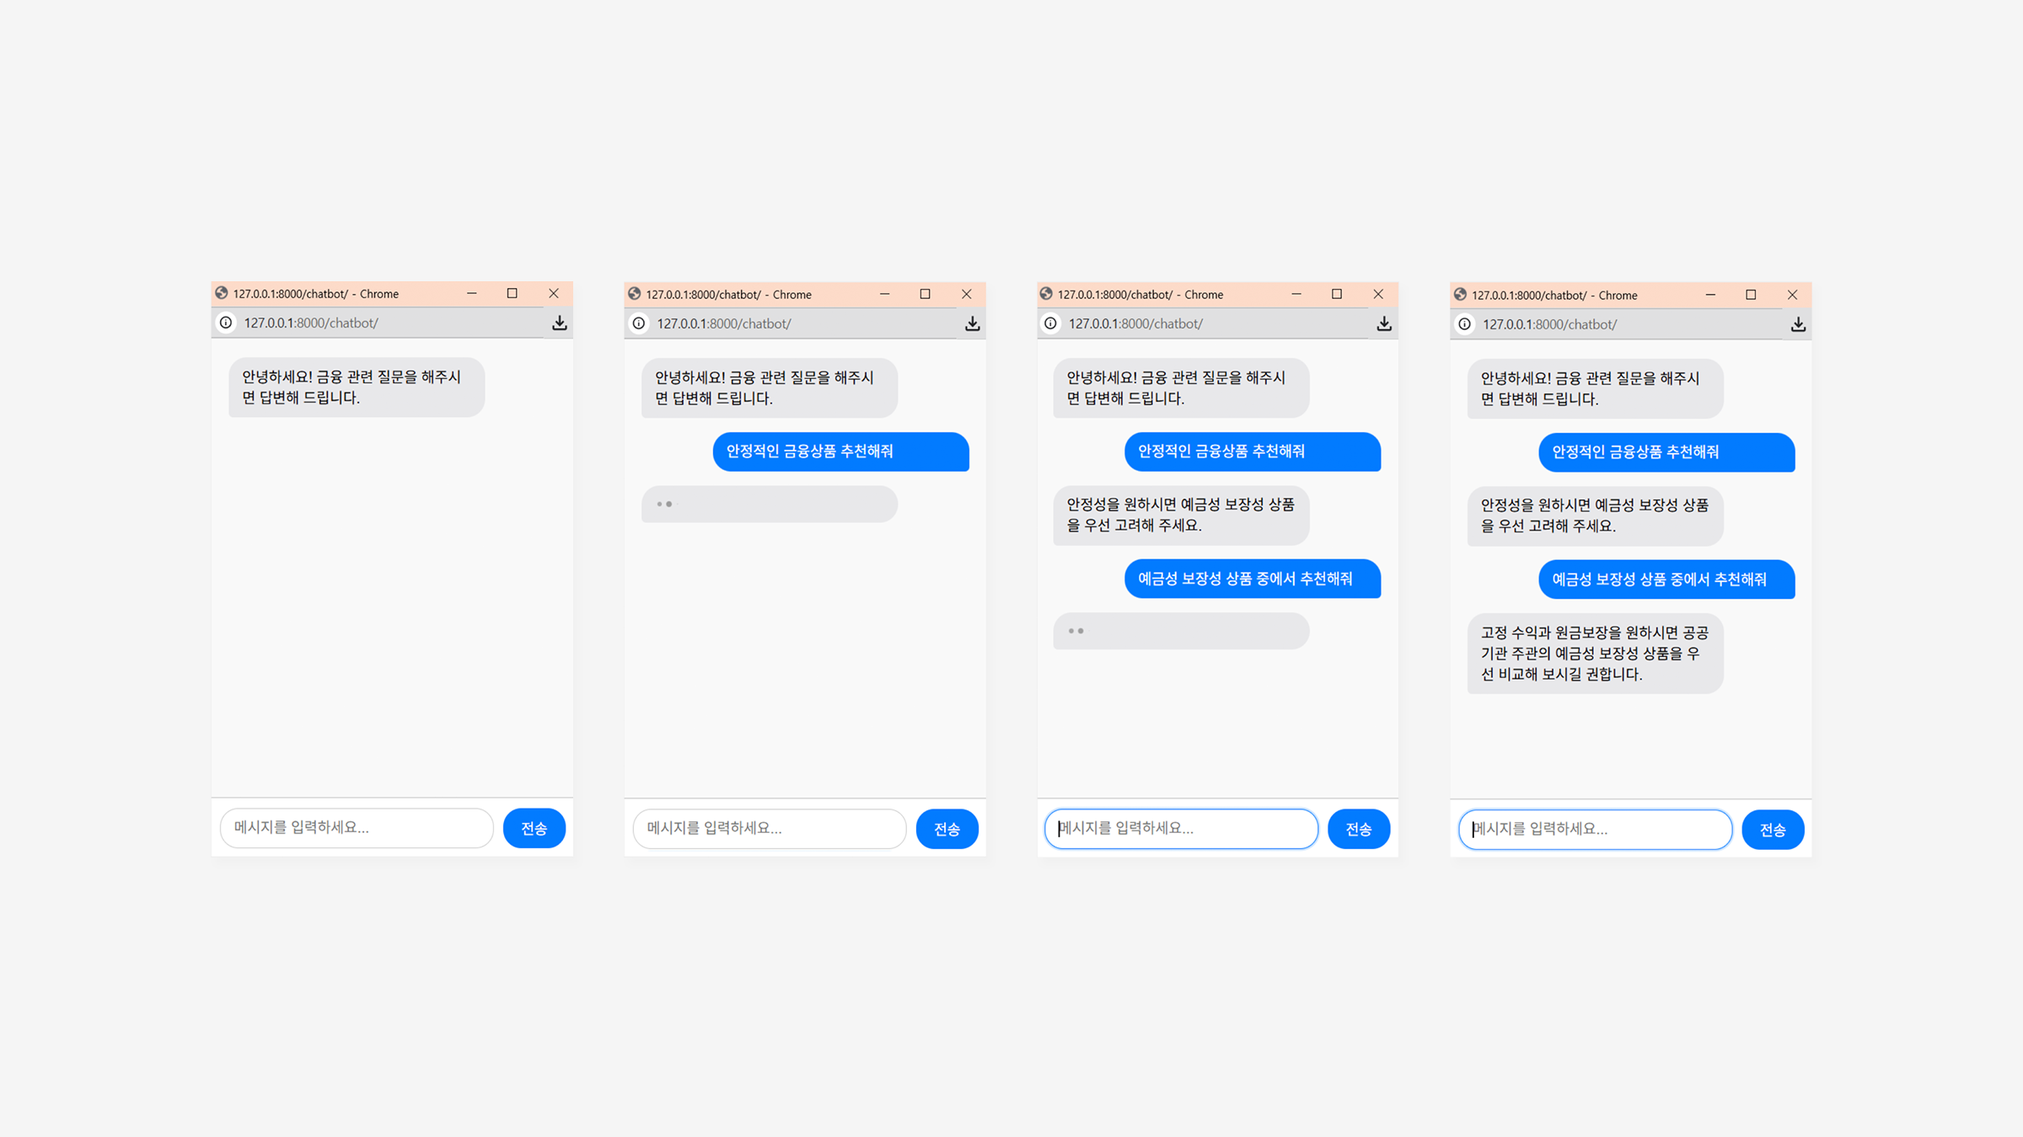
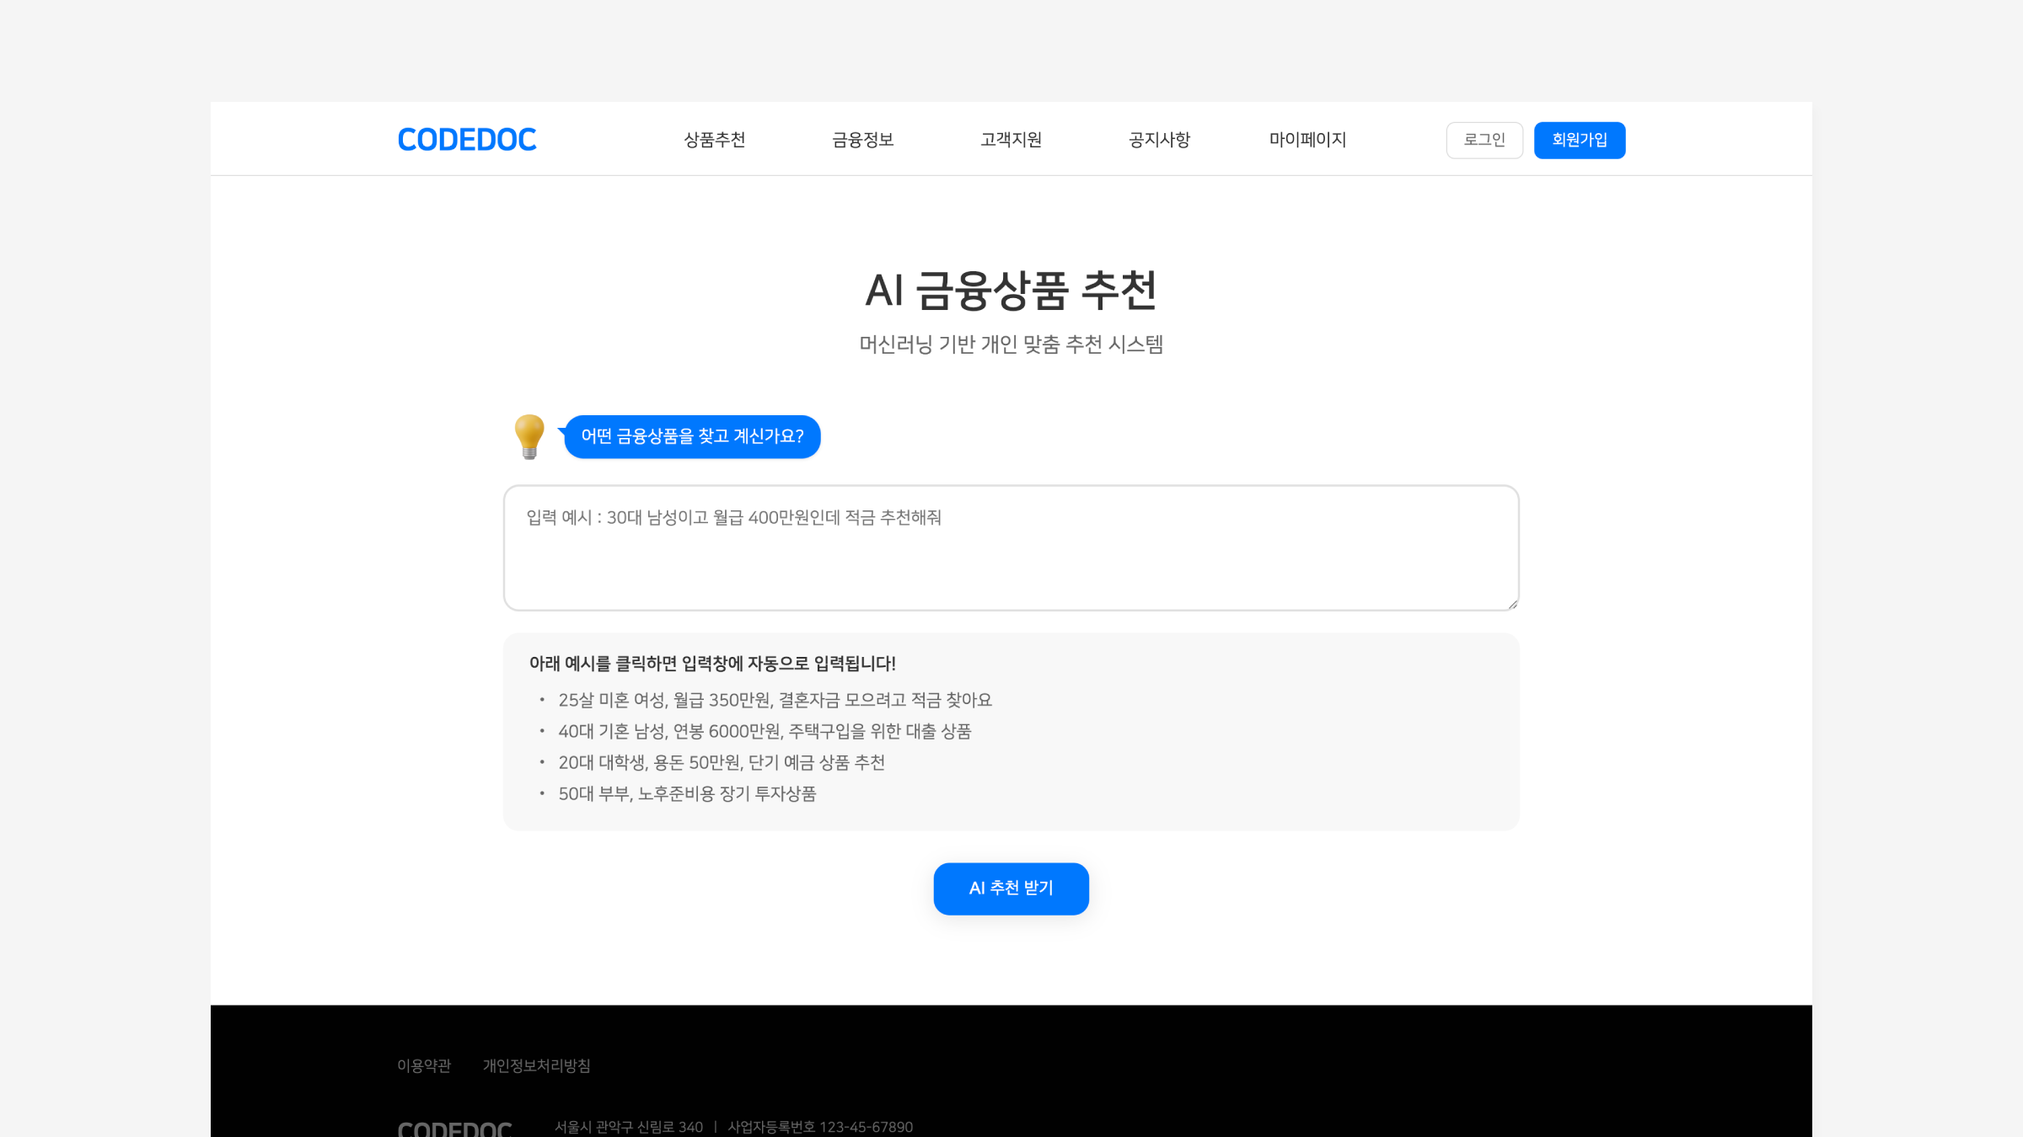
1120_Update project detail page data

diff --git a/src/data/projectsData.js b/src/data/projectsData.js
@@ -28,24 +28,24 @@ export const projectsData = [
     slug: 'cctv-anomaly-detection',
     title: 'AI 기반 CCTV 이상행동 감지 시스템',
     subtitle: 'CCTV 영상 분석 및 이상행동 탐지 플랫폼',
-    shortDescription: 'React + Flask 기반 8가지 이상행동 실시간 감지 및 전도 모델 정확도 97.9% 달성',
+    shortDescription: 'React + Flask 기반 8가지 이상행동 실시간 감지 시스템',
     heroImage: mockupImage3,
     
     overview: {
       duration: '2024.09.27 - 2024.11.11 (6주)',
       role: 'React 프론트엔드 개발, 전도 감지 모델 개발, EDA 및 데이터 전처리, UI/UX 설계, 반응형 구현 (40% 기여)',
       team: '5명',
-      description: 'CCTV 영상을 분석해 폭행, 절도 등의 이상행동을 감지하는 웹 기반 시스템입니다. 회원 전용 대시보드에서 영상 분석을 통해 이상행동을 감지하고, 감지된 순간의 이미지를 저장할 수 있습니다. 이 프로젝트에서 UI/UX 설계, React를 활용한 프론트엔드 개발을 담당했으며, 데이터 전처리 및 EDA를 진행하고 전도 감지 모델을 개발했습니다.'
+      description: 'CCTV 영상을 분석해 폭력, 침입, 방화, 흡연, 실신, 전도(쓰러짐) 등 이상행동을 자동 감지하는 웹 기반 모니터링 시스템입니다. 관리자 대시보드에서 카메라 등록·검색·관리, CCTV 화면, 감지 이미지 저장·조회 기능을 제공하며, React 기반 UI/UX로 PC·태블릿·모바일 환경에서 안정적으로 동작하도록 구현했습니다. 이 프로젝트에서 저는 프론트엔드 UI/UX 설계 및 개발, MediaPipe 기반 전도 감지 모델용 데이터 전처리, Feature Engineering, EDA, 전도 감지 모델 구조 설계 및 개선을 주도적으로 담당했습니다.'
     },
     
     challenge: {
       title: 'Challenge',
-      description: '실시간 CCTV 영상에서 다양한 이상행동을 정확하게 감지해야 하는 과제가 있었습니다. 특히 전도(쓰러짐) 감지의 경우, 카메라 구도(Front, Side, Top, Diagonal)에 따라 시각적 특징이 크게 달라지는 문제와 일상 행동(앉기, 눕기, 숙이기)과의 구분이 어려운 문제가 있었습니다. 또한 2,899개 영상 데이터에서 전도 데이터는 25%로 클래스 불균형이 존재했으며, 기존 클론 프로젝트의 UI/UX를 한국 사용자에 맞게 전면 개편해야 했습니다.'
+      description: '카메라 구도(Front, Side, Top, Diagonal)에 따라 전도 동작의 관절 패턴이 크게 달라져 초기 모델은 Front 구도만 높은 감지율을 보이고 다른 구도에서는 전도와 정상 행동(앉기·숙이기·눕기)이 혼동되는 문제가 있었습니다. 또한 전체 2,899개의 CCTV 영상 중 전도 비율이 약 25%에 불과해 클래스 불균형으로 전도 과소탐지가 발생했고, 폴더 기반 분할로 인해 영상 단위가 섞여 데이터 누수로 accuracy 1.0이 나오는 과적합 문제도 직접 확인했습니다. 프론트엔드 측면에서도 실시간 스트림, 감지 팝업, 이미지 저장 기능을 안정적으로 동작시키고, 다양한 화면 크기에서도 안정적인 UI와 매끄러운 모니터링 경험을 제공해야 하는 프론트엔드 기술적 요구사항도 존재했습니다.'
     },
     
     solution: {
       title: 'Solution',
-      description: 'MediaPipe Pose를 활용하여 33개 관절 좌표를 추출하고, Optical Flow로 움직임 벡터를 계산하여 198차원 Feature를 구성했습니다. Bi-LSTM 양방향 시계열 모델과 Attention Layer를 적용하여 전도 순간의 "하강 → 정지" 패턴을 학습시켰습니다. React 기반 직관적인 대시보드를 설계하여 실시간 CCTV 모니터링, 이상행동 통계, 이벤트 기록 관리 기능을 구현했으며, 모든 페이지에 반응형 디자인을 적용하여 모바일/태블릿 환경을 지원했습니다.'
+      description: 'MediaPipe Pose로 추출한 33개 관절 좌표를 중심점 기준으로 정규화하고, 관절 간 거리·속도·각도 특징을 결합한 Feature Fusion 시계열 입력을 구성했습니다. Bi-LSTM을 통해 “하강 → 바닥 접촉 → 정지”로 이어지는 전도 고유 패턴을 학습시키고, Attention을 적용해 핵심 프레임 가중치를 강화했습니다. 전도·정상 데이터 간 불균형은 class_weight로 보정하고, 데이터 누수 문제는 폴더 단위가 아닌 영상(video_id) 단위 GroupKFold 기준으로 재구성하여 해결했습니다. 프론트엔드에서는 React를 기반으로 대시보드, 카메라 관리, 실시간 감시 화면, 감지 이미지 저장·조회 UI를 설계하고, WebRTC 기반 스트림 성능 최적화 및 전 페이지 반응형 구조를 구축했습니다. 또한 전도 영상 약 800개와 추가 정상 행동 데이터를 기반으로 구도별 일반화 성능을 향상시키기 위한 모델 고도화를 지속적으로 진행 중입니다.'
     },
     
     techStack: {
@@ -76,17 +76,19 @@ export const projectsData = [
     results: {
       title: 'Results',
       achievements: [
-        'React 기반 실시간 CCTV 모니터링 UI/UX 개발 및 반응형 웹 구현',
-        'Bi-LSTM 전도 감지 모델 정확도 97.9%, Recall 88.4% 달성',
-        'MediaPipe Pose + Optical Flow 기반 Feature Engineering 파이프라인 구축',
-        '2,899개 영상 데이터 EDA 수행 및 클래스 불균형 문제 해결 방안 도출'
+        'React 기반 관리자 대시보드 · 카메라 등록 · 감지 이미지 저장/조회 UI/UX 개발',
+        'CCTV 모니터링 UI 안정화 및 감지 이벤트 팝업·저장 기능 설계',
+        'MediaPipe Pose 기반 전도 감지 Feature Engineering 파이프라인 구축',
+        '폴더 기반 데이터 분할로 발생하던 데이터 누수 문제를 영상 단위 GroupKFold 방식으로 재설계',
+        '전도·정상 데이터 비율 불균형 문제에 대해 class_weight 조정 및 정상 행동데이터 확장 전략을 수립',
+        'Feature Fusion + Bi-LSTM + Attention 기반 전도 감지 모델을 실시간 적용 가능한 형태로 구성'
       ]
     },
     
     links: {
       github: 'https://github.com/tangerineTaste/Anomaly-detection',
       youtube: 'https://www.youtube.com/@yshin_projects',
-      demo: '#'
+      demo: 'http://3.26.220.160:3000'
     },
     
     // CCTV 유튜브 영상
@@ -98,24 +100,24 @@ export const projectsData = [
     slug: 'ai-chatbot-assistant',
     title: '지능형 금융상담 챗봇 및 금융상품 추천 AI 시스템',
     subtitle: 'RAG-Based Personalized Financial Consulting Platform',
-    shortDescription: 'LightGBM 87.6% 정확도 달성, 22,975건 금융 데이터 처리',
+    shortDescription: '5개 금융상품 다중출력 모델 평균 Accuracy 87.6%',
     heroImage: mockupImage1,
     
     overview: {
       duration: '2024.07 - 2024.08 (5주)',
       role: '데이터 수집&정제, ML 모델링, Django 웹 구현 (40% 기여)',
       team: '4명',
-      description: '사용자 맞춤 금융 상담과 상품 추천을 제공하는 AI 기반 금융 플랫폼입니다. 챗봇을 통한 금융 상담, 회원 정보 기반 맞춤 상품 추천, 비회원도 이용 가능한 간편 추천 기능을 제공하며, 금융 뉴스, 공지사항, 서비스 가이드 등의 부가 기능을 포함합니다. 이 프로젝트에서 전체 UI/UX 설계 및 디자인, 대부분의 프론트엔드 페이지 개발, 팀원 페이지 통합 작업을 담당했으며, LightGBM과 XGBoost 기반 금융상품 추천 모델을 개발했습니다.'
+      description: '사용자의 금융 성향과 개인 정보를 기반으로 맞춤형 금융상품을 추천하고, RAG 기반 금융 상담 챗봇으로 다양한 금융·법률 정보를 제공하는 AI 금융 플랫폼입니다. 회원가입·상품 추천·뉴스 수집·공지사항·법률 문서 검색 기능을 통합한 웹 서비스로, Django 기반의 구조 설계와 프론트엔드 UI 개발을 담당했습니다. 또한 LightGBM·XGBoost 기반 금융상품 보유 여부 예측 모델을 개발하고, 데이터 전처리·EDA·모델링 전체 파이프라인을 주도했습니다.'
     },
     
     challenge: {
       title: 'Challenge',
-      description: '22,975건의 대용량 금융 데이터 처리 및 불균형 데이터 문제(클래스 비율: 4.2%~59.1% 분포)에 직면했습니다. 5개 금융상품(단기금융상품펀드, 양도성예금증서, 비머니마켓펀드, 주식보유, 퇴직준비금유동성)을 동시에 예측해야 했으며, 복잡한 비즈니스 로직과 사용자 인증을 다루는 Django 백엔드 개발이 필요했습니다.'
+      description: '22,975건의 금융 데이터는 각 금융상품의 보유 비율이 크게 달라 심한 클래스 불균형 문제가 존재했고, 5개의 금융상품을 동시에 예측해야 하는 다중출력 구조로 인해 각 타깃의 패턴을 안정적으로 학습시키기 어려웠습니다. 또한 Django에서 회원가입, 로그인, 추천 결과, 상품 상세 페이지 등 여러 기능을 자연스럽게 연결하는 UI 흐름을 구성해야 했으며, 다양한 사용자 입력을 기반으로 예측 결과를 안정적으로 전달하는 웹 구조 설계가 필요했습니다.'
     },
     
     solution: {
       title: 'Solution',
-      description: 'class_weight="balanced"를 적용하여 불균형 데이터 문제를 해결했습니다. MultiOutputClassifier를 통한 5개 금융상품 다중 출력 분류 구현 및 LightGBM과 XGBoost 모델 하이퍼파라미터 튜닝을 수행했습니다. 11개 핵심 특성 변수를 선별하고, Django 기반 5개 앱 구조(accounts, home, product_recommendation, customer_support 등)를 설계했습니다.'
+      description: '클래스 불균형 문제를 해결하기 위해 class_weight="balanced"를 적용하고, MultiOutputClassifier와 LightGBM·XGBoost 조합으로 5개 금융상품을 동시에 예측하는 모델을 설계했습니다. EDA를 통해 노이즈 변수를 정리하고 교육수준·연령대·위험성향 등 11개의 핵심 특성을 선별해 모델 효율성과 성능을 향상시켰습니다. Django 기반에서는 회원 인증, 추천 결과 페이지, 상품 상세 페이지, 공지사항 등 주요 기능을 개발하고 Bootstrap과 Chart.js를 활용해 사용자 친화적인 UI/UX를 구현했으며, 팀원들의 기능을 통합하여 전체 서비스 흐름을 안정적으로 구성했습니다.'
     },
     
     techStack: {
@@ -126,29 +128,30 @@ export const projectsData = [
     
     features: [
       {
+        title: 'Django 웹 애플리케이션 개발 및 배포',
+        description: 'Django 기반 웹 기획, 설계 및 UI/UX 디자인 담당. 5개 앱 구조 설계(accounts, home, product_recommendation, customer_support, chatbot). 사용자 인증 및 세션 관리 시스템 구현. AWS EC2 환경에서 웹 애플리케이션 배포 완료. 네이버 뉴스 API 연동 10개 카테고리 자동 분류 및 금융감독원 API 6개 카테고리 실시간 금융상품 데이터 수집 시스템 구축.',
+        image: keyfeatureImage3
+      },
+      {
         title: '금융상품 보유 예측',
         description: 'MultiOutputClassifier를 통한 5개 금융상품(MMMF, CDS, NMMF, STOCKS, RETQLIQ) 동시 예측 구현. 11개 특성 변수(교육수준분류, 연령대분류, 금융위험감수, 금융위험회피, 저축여부, 급여소득, 연령, 가구주성별, 결혼상태, 자녀수, 직업분류1)를 활용한 예측 시스템 구축.',
         image: keyfeatureImage1
       },
       {
-        title: 'RAG 시스템 기반 법률 문서 검색',
-        description: 'Pinecone 벡터 데이터베이스에 86,103개 텍스트 조각을 업로드하여 법률 문서 검색 시스템 구축. LangChain 프레임워크, Upstage Embeddings(solar-embedding-1-large), OpenAI(gpt-5-nano), Cohere 리랭킹 모델(rerank-multilingual-v3.0) 활용. 객관식 문제 80% 정확도(100문제 중 80개 정답), 주관식 문제 50% 정확도(50문제 중 25개 정답) 달성.',
+        title: '비회원 금융상품 간편 추천',
+        description: '비회원도 자연어로 자신의 상황을 입력하기만 하면 즉시 금융상품 추천을 받을 수 있는 간편 추천 페이지입니다. 제공된 예시를 클릭하면 자동으로 입력창이 채워져 누구나 쉽게 사용할 수 있으며, 로그인 없이도 AI 추천 결과를 시각화된 형태로 확인할 수 있어 서비스 접근성과 편의성을 크게 높였습니다.',
         image: keyfeatureImage2
       },
-      {
-        title: 'Django 웹 애플리케이션 개발 및 배포',
-        description: 'Django 기반 웹 기획, 설계 및 UI/UX 디자인 담당. 5개 앱 구조 설계(accounts, home, product_recommendation, customer_support, chatbot). 사용자 인증 및 세션 관리 시스템 구현. AWS EC2 환경에서 웹 애플리케이션 배포 완료. 네이버 뉴스 API 연동 10개 카테고리 자동 분류 및 금융감독원 API 6개 카테고리 실시간 금융상품 데이터 수집 시스템 구축.',
-        image: keyfeatureImage3
-      }
     ],
     
     results: {
       title: 'Results',
       achievements: [
-        'LightGBM 정확도 87.6% (F1-score 71.7%, Precision 67.1%, Recall 74.1%) 달성',
-        'RAG 시스템 객관식 80%, 주관식 50% 정확도로 86,103개 법률 문서 검색 구현',
-        '22,975건 대용량 금융 데이터 성공적 처리 및 5개 금융상품 다중 출력 분류 구현',
-        'Django 5개 앱 구조 웹 애플리케이션 개발 및 AWS EC2 클라우드 배포 성공'
+        '22,975건 금융 데이터 기반 5개 금융상품 다중출력 추천 모델 개발',
+        'LightGBM·XGBoost 기반 모델링 및 클래스 불균형 개선(class_weight 적용)',
+        'Django 기반 회원가입·로그인·추천결과·상품 상세·공지사항 UI 직접 구현',
+        '팀원 페이지와 백엔드 로직을 통합하여 웹 전체 서비스 흐름 안정화',
+        'AWS EC2 클라우드 배포 성공'
       ]
     },
     
@@ -174,17 +177,17 @@ export const projectsData = [
       duration: '2024.07 - 2024.07 (2주)',
       role: 'Flask 웹 개발, UI/UX 디자인 (30% 기여)',
       team: '4명',
-      description: '장마철 침수 위험을 예측하여 사전 대비를 돕는 AI 기반 웹 서비스입니다. 사용자는 날짜와 지역, AI 모델을 선택하여 침수 위험도를 예측하고, 그래프와 표로 시각화된 결과를 확인할 수 있습니다. 침수 관련 뉴스 조회, 회원 인증 기능도 제공합니다. 이 프로젝트에서 UI/UX 설계 및 디자인, Flask 기반 웹 개발 전반을 담당했습니다.'
+      description: '장마철 침수 위험을 예측하여 사용자에게 지역별 위험도를 시각적으로 제공하는 AI 기반 웹 서비스입니다. 랜덤포레스트·XGBoost·LightGBM·CatBoost 모델을 활용해 침수 위험을 계산하고, Flask 기반 웹 애플리케이션으로 예측 결과와 기상 데이터를 실시간으로 제공합니다. 이 프로젝트에서 저는 UI/UX 설계, Flask 기반 웹 서비스 개발, 예측 결과 시각화, 페이지 구조 설계를 중심으로 기여했습니다.'
     },
     
     challenge: {
       title: 'Challenge',
-      description: '약 227,000개의 대용량 기상 데이터를 효율적으로 처리하고 실시간으로 예측해야 하는 과제가 있었습니다. 다양한 기상 변수(강수량, 습도, 기온 등)를 고려한 정확한 침수 위험도 예측이 필요했으며, 사용자가 직관적으로 이해할 수 있는 시각화 인터페이스 구현이 요구되었습니다.'
+      description: '침수 위험 예측 결과를 사용자에게 직관적으로 전달하기 위해 대용량 기상 데이터를 기반으로 생성된 예측 값을 빠르게 받아와 표시해야 했습니다. Flask 환경에서 여러 페이지와 API를 연결하여 날짜·지역 선택 → 모델 선택 → 예측 요청 → 시각화 결과 표시까지의 흐름을 안정적으로 구성하는 것이 필요했습니다. 또한 지역별 위험 수준을 한눈에 파악할 수 있도록 그래프, 표, 색상 등을 활용한 시각적 UI 설계가 중요한 과제였습니다.'
     },
     
     solution: {
       title: 'Solution',
-      description: '4가지 머신러닝 모델을 앙상블하여 예측 정확도를 향상시켰습니다. Flask 프레임워크를 활용한 경량화된 웹 애플리케이션 구조 설계로 1초 이내 실시간 예측 처리를 구현했습니다. Chart.js를 활용한 데이터 시각화로 지역별 침수 위험도를 직관적으로 표현했으며, 12개의 RESTful API를 통해 효율적인 데이터 통신 구조를 구축했습니다.'
+      description: 'Flask 기반으로 입력값을 전달받아 예측 결과를 반환하는 REST API를 설계하고, 선택된 지역·날짜·모델에 따라 즉시 응답하도록 웹 구조를 최적화했습니다. Chart.js를 활용해 지역별 침수 위험도를 그래프와 표로 시각화하여 사용자가 데이터를 직관적으로 확인할 수 있도록 구현했습니다. 또한 전체 UI/UX 흐름을 재구성하여 예측 페이지, 뉴스 페이지, 회원 기능, 모델 선택 UI 등 다양한 화면을 사용자 친화적으로 설계하고, 서비스 전체를 안정적으로 동작하도록 페이지를 통합했습니다.'
     },
     
     techStack: {
@@ -214,17 +217,18 @@ export const projectsData = [
     results: {
       title: 'Results',
       achievements: [
-        'Flask 기반 완성된 웹 사이트 구축 (6개 페이지, 12개 API)',
-        '약 227,000개 대용량 기상 데이터 성공적 처리',
-        '실시간 예측 1초 이내 처리 시스템 완성',
-        '4가지 머신러닝 모델 앙상블을 통한 높은 예측 정확도 달성'
+        'Flask 기반 실시간 침수 위험 예측 웹 인터페이스 구축',
+        'Chart.js 기반 시각화로 지역별 위험도 그래프·표 UI 개발',
+        '날짜·지역·모델 선택 기능을 포함한 사용자 중심 인터페이스 설계',
+        '12개 Flask API를 연동해 데이터 호출·전달 구조 안정화',
+        '예측 페이지·뉴스 페이지·회원 기능 등 전체 페이지 UI/UX 개발 및 통합'
       ]
     },
     
     links: {
       github: 'https://github.com/SeohuiJeong0420/crew_soom',
       youtube: 'https://www.youtube.com/@yshin_projects',
-      demo: '#'
+      // demo: '#'
     },
     
     // 침수 예측 유튜브 영상
